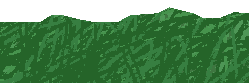
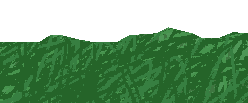
nav menu changes, grass lowered

diff --git a/build/bundle.js b/build/bundle.js
@@ -33996,7 +33996,7 @@
 
 	    vm.links = [
 	      {name: 'home', action: vm.toHome, path: '/home'},
-	      {name: 'mt employment', action: vm.toProfessional, path: '/professional'},
+	      {name: 'professional', action: vm.toProfessional, path: '/professional'},
 	      {name: 'coming soon', action: vm.toHome, path: '/home'},
 	    ]
 
@@ -34052,6 +34052,12 @@
 	    // }));
 
 	    vm.education = [
+	      {
+	        title: "code 401: full-stack javascript",
+	        place: "code fellows, seattle, wa",
+	        url: "https://www.codefellows.org/courses/code-401/advanced-software-development-in-full-stack-javascript",
+	        date: "spring 2016"
+	      },
 	      {
 	        title: "code 301: intermediate software development",
 	        place: "code fellows, seattle, wa",

diff --git a/src/controllers/professional.js b/src/controllers/professional.js
@@ -40,6 +40,12 @@ module.exports = function(app) {
 
     vm.education = [
       {
+        title: "code 401: full-stack javascript",
+        place: "code fellows, seattle, wa",
+        url: "https://www.codefellows.org/courses/code-401/advanced-software-development-in-full-stack-javascript",
+        date: "spring 2016"
+      },
+      {
         title: "code 301: intermediate software development",
         place: "code fellows, seattle, wa",
         url: "https://www.codefellows.org/courses/code-301/intermediate-software-development",

diff --git a/src/controllers/nav-menu.js b/src/controllers/nav-menu.js
@@ -17,7 +17,7 @@ module.exports = function(app) {
 
     vm.links = [
       {name: 'home', action: vm.toHome, path: '/home'},
-      {name: 'mt employment', action: vm.toProfessional, path: '/professional'},
+      {name: 'professional', action: vm.toProfessional, path: '/professional'},
       {name: 'coming soon', action: vm.toHome, path: '/home'},
     ]
 
